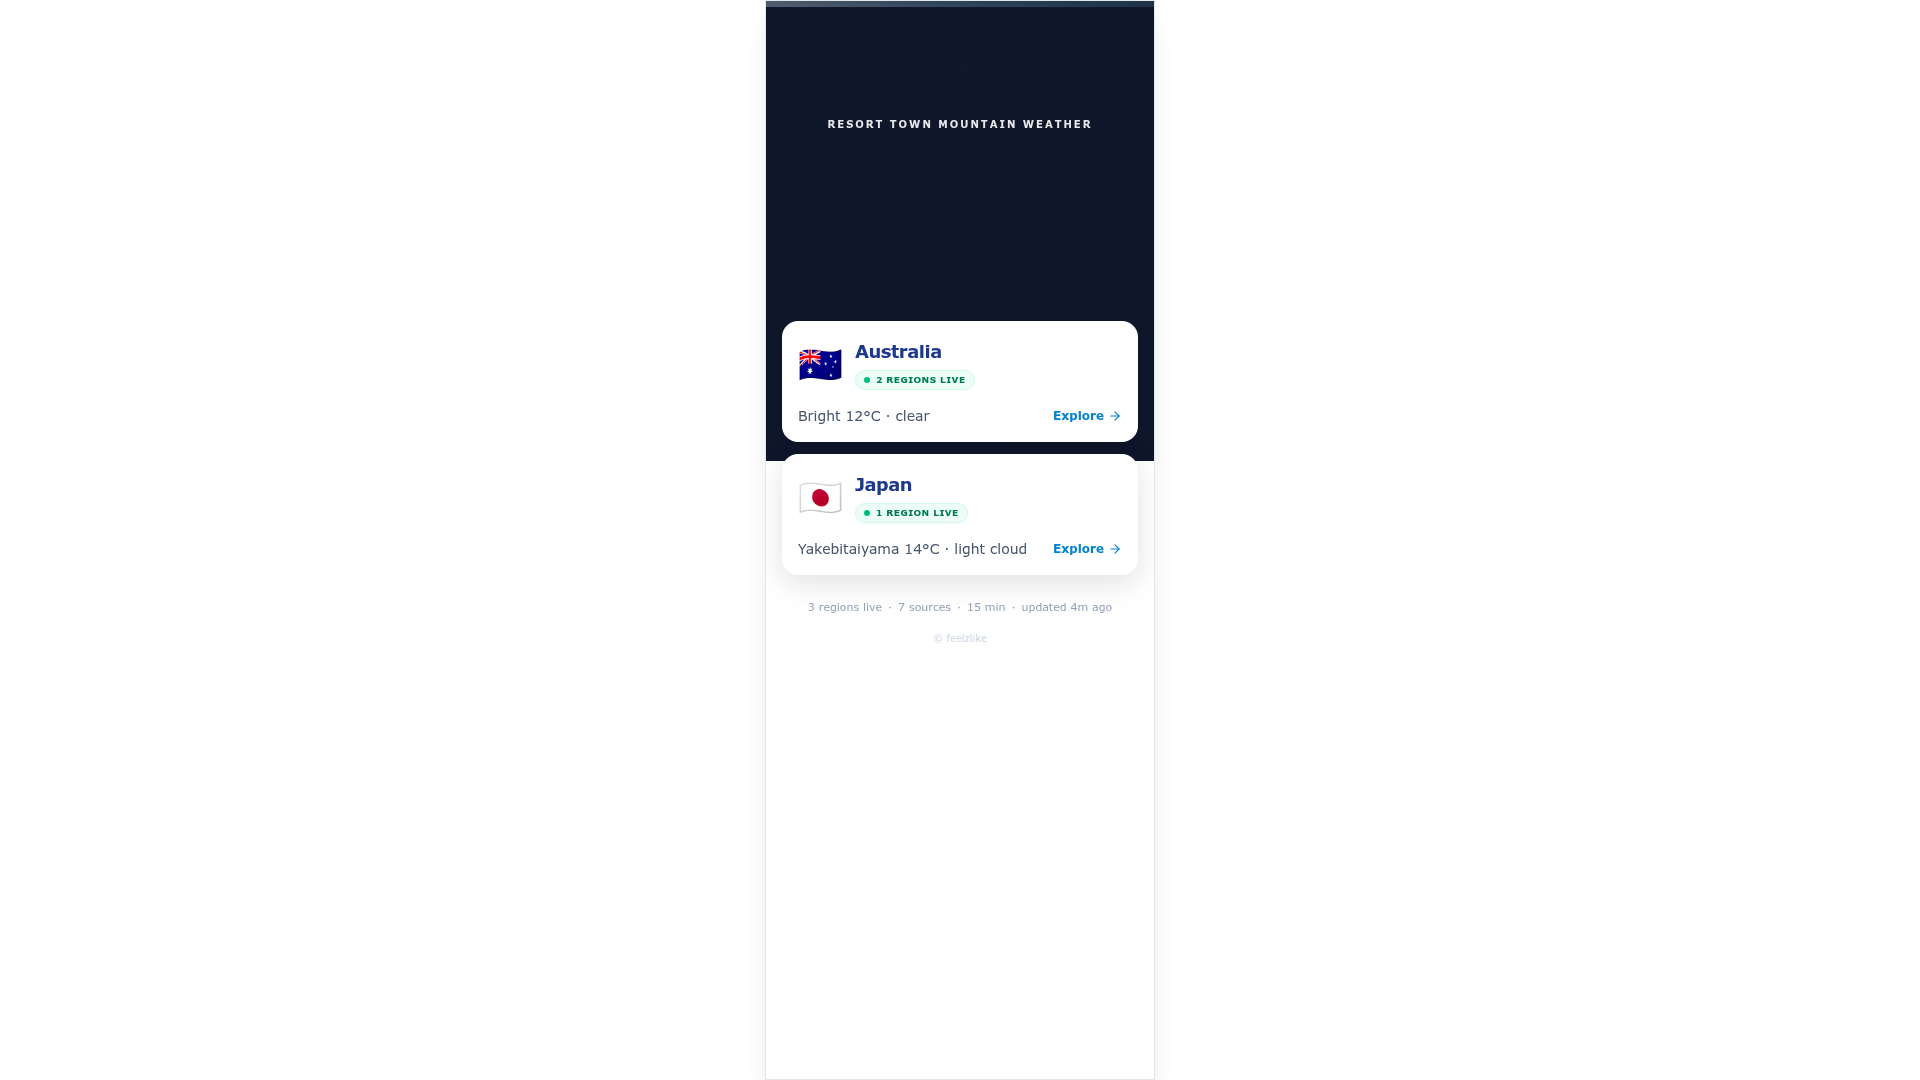
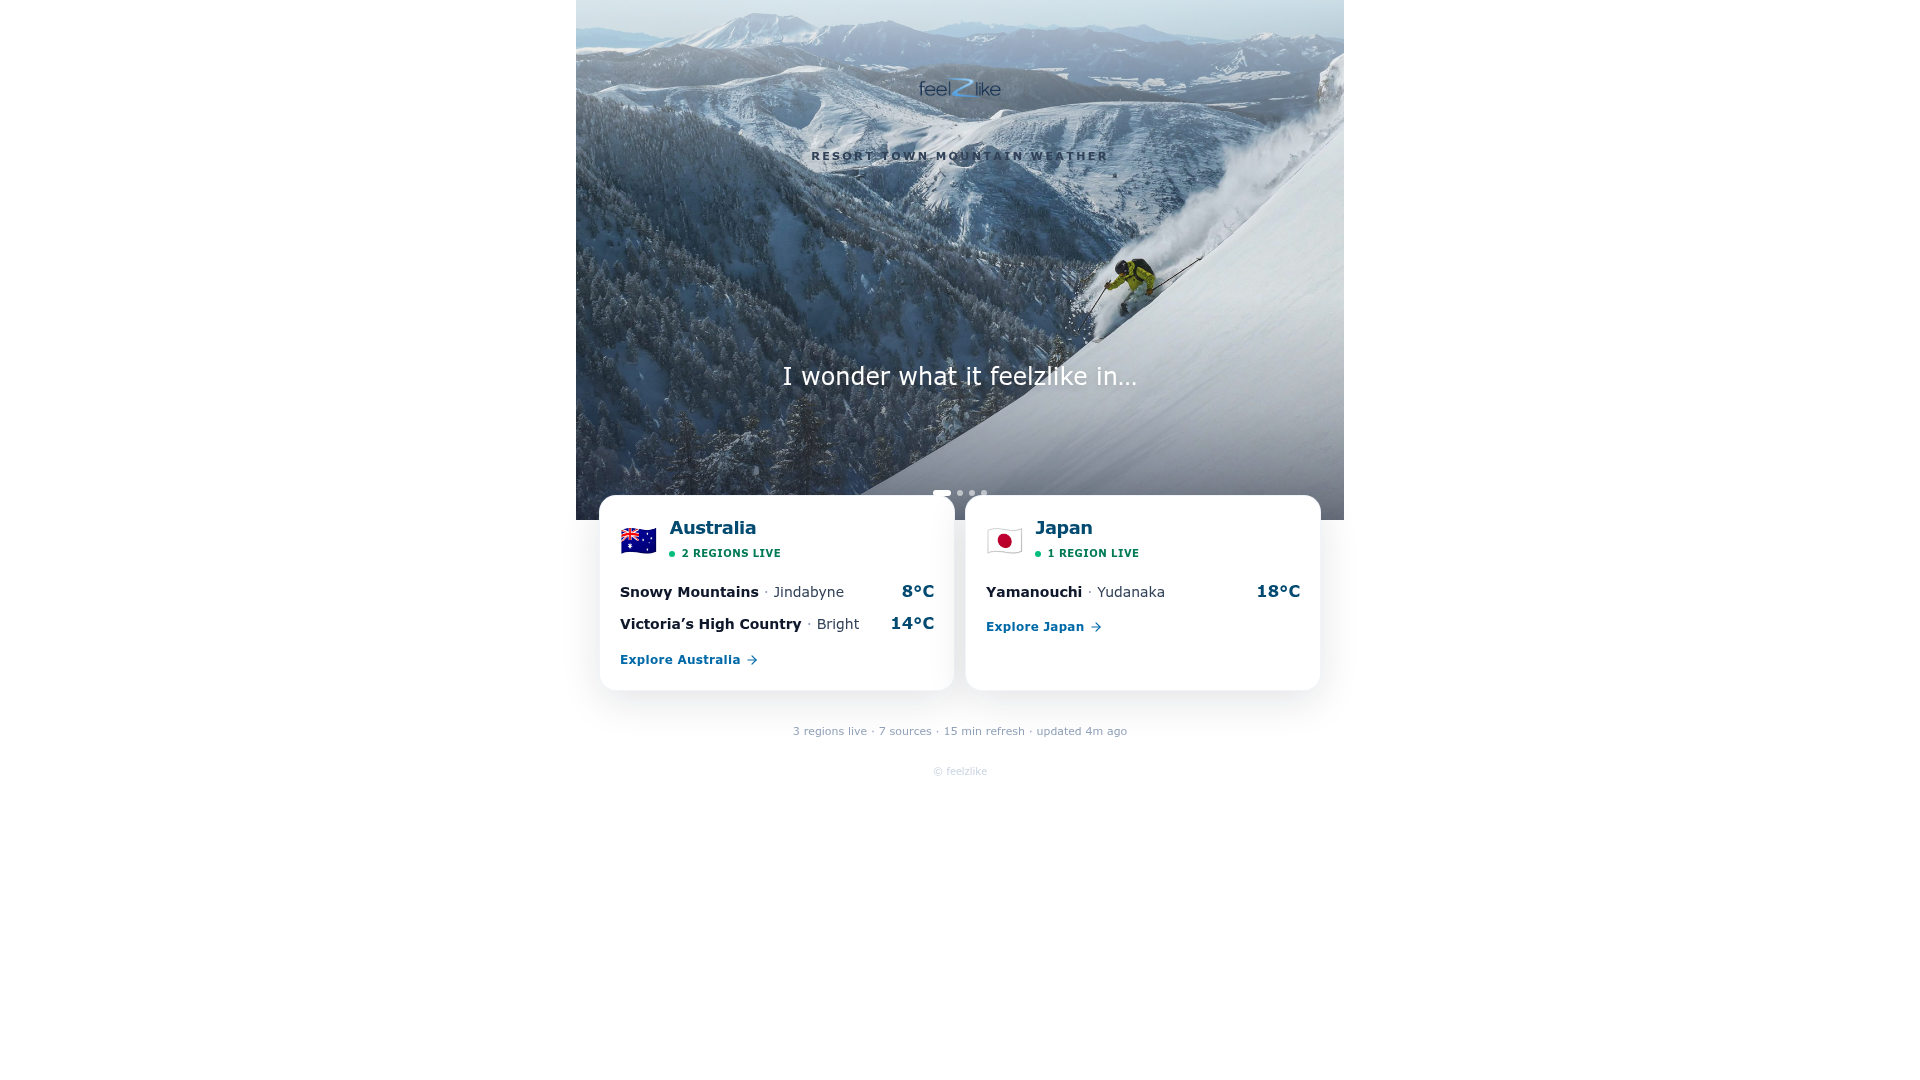
Update landing page with resort town slideshow and improved typography
Refactor `PhotoLed.tsx` to implement a responsive slideshow using new town images and wordmark, improve typography with `text-wrap: pretty`, and adjust layout for better readability across devices.

Replit-Commit-Author: Agent
Replit-Commit-Session-Id: 6cb63c1c-55be-41a5-b172-fdabfa1a7361
Replit-Commit-Checkpoint-Type: full_checkpoint
Replit-Commit-Event-Id: d2ac7f6b-ad75-4cd1-ad31-7e80a027bf1a
Replit-Commit-Screenshot-Url: https://storage.googleapis.com/screenshot-production-us-central1/f00f4d5d-4365-44ba-9092-bb91cd53e665/6cb63c1c-55be-41a5-b172-fdabfa1a7361/V70rkp1
Replit-Helium-Checkpoint-Created: true

Changed region(s): [[0.2812, 0.0, 0.7188, 0.6111], [0.6562, 0.5194, 0.6875, 0.55]]

diff --git a/artifacts/mockup-sandbox/src/components/mockups/landing-mobile/PhotoLed.tsx b/artifacts/mockup-sandbox/src/components/mockups/landing-mobile/PhotoLed.tsx
@@ -1,130 +1,204 @@
-import React from 'react';
+import React, { useEffect, useState } from 'react';
 import { ArrowRight } from 'lucide-react';
 
+const SLIDES = [
+  { src: '/__mockup/images/town-slide-1.jpg', alt: 'Resort town' },
+  { src: '/__mockup/images/town-slide-2.jpg', alt: 'Resort town' },
+  { src: '/__mockup/images/town-slide-3.jpg', alt: 'Resort town' },
+  { src: '/__mockup/images/town-slide-4.jpg', alt: 'Resort town' },
+];
+
 export function PhotoLed() {
+  const [active, setActive] = useState(0);
+
+  useEffect(() => {
+    const id = window.setInterval(
+      () => setActive((i) => (i + 1) % SLIDES.length),
+      4500,
+    );
+    return () => window.clearInterval(id);
+  }, []);
+
   return (
-    <div 
-      className="relative w-full h-full min-h-[844px] bg-white text-slate-900 mx-auto sm:w-[390px] sm:border sm:border-slate-200 sm:shadow-xl sm:overflow-hidden"
-      style={{ fontFamily: "'DIN Pro', system-ui, sans-serif" }}
+    <div
+      className="min-h-screen w-full bg-white text-slate-900"
+      style={{
+        fontFamily: "'DIN Pro', system-ui, sans-serif",
+        textWrap: 'pretty' as React.CSSProperties['textWrap'],
+      }}
     >
-      {/* Hero Section */}
-      <div className="relative h-[460px] w-full bg-slate-900 overflow-hidden">
-        <img 
-          src="/__mockup/images/mountain-hero.png" 
-          alt="Mountains" 
-          className="relative w-full h-full object-cover object-center z-0"
-        />
-        <div className="absolute inset-0 bg-gradient-to-b from-slate-900/40 via-transparent to-slate-900/60 z-0" />
-        
-        <div className="absolute inset-0 z-10 pt-16 px-6 flex flex-col items-center text-center">
-          <img 
-            src="/__mockup/images/feelzlike-logo.png" 
-            alt="feelzlike" 
-            className="h-12 w-auto mb-3 relative z-20"
-            style={{ filter: "brightness(0) invert(1)" }}
-            loading="eager"
-          />
-          <span className="text-[10px] font-semibold uppercase tracking-[0.2em] text-white/90 mb-6">
-            Resort Town Mountain Weather
-          </span>
-          
-          <div className="w-full text-center">
-            <h2 className="text-xl text-white/90 leading-snug font-medium">
-              I wonder what it feelzlike in...
-            </h2>
-          </div>
-        </div>
-      </div>
+      <div className="mx-auto w-full max-w-md md:max-w-3xl">
+        {/* Hero: town slideshow */}
+        <section className="relative h-[460px] md:h-[520px] w-full overflow-hidden bg-slate-900">
+          {SLIDES.map((s, i) => (
+            <img
+              key={s.src}
+              src={s.src}
+              alt={s.alt}
+              loading={i === 0 ? 'eager' : 'lazy'}
+              className="absolute inset-0 h-full w-full object-cover transition-opacity duration-1000 ease-out"
+              style={{ opacity: i === active ? 1 : 0 }}
+            />
+          ))}
 
-      {/* Cards Section */}
-      <div className="relative -mt-[140px] px-4 space-y-3 z-10">
-        
-        {/* AU Card */}
-        <div className="bg-white rounded-2xl p-4 shadow-[0_8px_30px_rgb(0,0,0,0.12)]">
-          <div className="flex items-start justify-between mb-3">
-            <div className="flex items-center gap-3">
-              <span className="text-4xl leading-none">🇦🇺</span>
-              <div>
-                <h3 className="text-lg font-bold text-blue-900 tracking-tight">Australia</h3>
-                <div className="mt-0.5 inline-flex items-center gap-1.5 px-2 py-0.5 rounded-full bg-emerald-50 border border-emerald-100">
-                  <span className="relative flex h-1.5 w-1.5">
-                    <span className="absolute inline-flex h-full w-full rounded-full bg-emerald-500 opacity-60 animate-ping" />
-                    <span className="relative inline-flex rounded-full h-1.5 w-1.5 bg-emerald-500" />
-                  </span>
-                  <span className="text-[9px] font-semibold uppercase tracking-wider text-emerald-700">
+          {/* Scrims: soft top wash for logo legibility, deeper bottom wash for cue */}
+          <div className="absolute inset-x-0 top-0 h-48 bg-gradient-to-b from-white/70 via-white/30 to-transparent" />
+          <div className="absolute inset-x-0 bottom-0 h-56 bg-gradient-to-t from-slate-900/55 via-slate-900/20 to-transparent" />
+
+          {/* Logo lockup */}
+          <div className="relative z-10 flex flex-col items-center px-6 pt-10 text-center">
+            <img
+              src="/__mockup/images/wordmark-colour.png"
+              alt="feelzlike"
+              loading="eager"
+              className="h-16 w-auto md:h-24"
+            />
+            <p
+              className="mt-3 text-[11px] font-semibold uppercase leading-snug tracking-[0.22em] text-slate-700"
+              style={{ textWrap: 'balance' as React.CSSProperties['textWrap'] }}
+            >
+              Resort town mountain weather
+            </p>
+          </div>
+
+          {/* Cue: sits in the lower-middle of the hero, well above the cards */}
+          <div className="absolute inset-x-0 bottom-28 z-10 px-6 text-center md:bottom-32">
+            <h1
+              className="text-xl font-medium leading-snug text-white drop-shadow-md md:text-2xl"
+              style={{ textWrap: 'balance' as React.CSSProperties['textWrap'] }}
+            >
+              I wonder what it feelzlike in&hellip;
+            </h1>
+          </div>
+
+          {/* Slideshow dots */}
+          <div className="absolute bottom-6 left-1/2 z-10 flex -translate-x-1/2 gap-1.5">
+            {SLIDES.map((_, i) => (
+              <span
+                key={i}
+                className="h-1.5 rounded-full bg-white transition-all duration-500"
+                style={{
+                  width: i === active ? 18 : 6,
+                  opacity: i === active ? 1 : 0.55,
+                }}
+              />
+            ))}
+          </div>
+        </section>
+
+        {/* Country cards: sit BELOW the hero, no overlap, so the cue stays visible */}
+        <section className="relative -mt-6 px-4 pb-8 md:px-6">
+          <div className="grid grid-cols-1 gap-3 md:grid-cols-2">
+            {/* Australia */}
+            <article className="rounded-2xl bg-white p-5 shadow-[0_10px_40px_rgb(15,23,42,0.12)] ring-1 ring-slate-100">
+              <header className="flex items-center gap-3">
+                <span aria-hidden className="text-3xl leading-none">
+                  &#127462;&#127482;
+                </span>
+                <div className="min-w-0">
+                  <h2 className="text-lg font-bold leading-tight tracking-tight text-sky-900">
+                    Australia
+                  </h2>
+                  <p className="mt-0.5 inline-flex items-center gap-1.5 text-[10px] font-semibold uppercase tracking-wider text-emerald-700">
+                    <span className="relative inline-flex h-1.5 w-1.5">
+                      <span className="absolute inline-flex h-full w-full animate-ping rounded-full bg-emerald-500 opacity-60" />
+                      <span className="relative inline-flex h-1.5 w-1.5 rounded-full bg-emerald-500" />
+                    </span>
                     2 regions live
-                  </span>
+                  </p>
                 </div>
-              </div>
-            </div>
-          </div>
+              </header>
 
-          <div className="mt-3 space-y-1.5">
-            <div className="flex items-center justify-between text-sm">
-              <span className="text-slate-700"><span className="font-semibold">Snowy Mountains</span> <span className="text-slate-400">·</span> Jindabyne</span>
-              <span className="font-bold tabular-nums text-blue-900">6°C</span>
-            </div>
-            <div className="flex items-center justify-between text-sm">
-              <span className="text-slate-700"><span className="font-semibold">Vic High Country</span> <span className="text-slate-400">·</span> Bright</span>
-              <span className="font-bold tabular-nums text-blue-900">12°C</span>
-            </div>
-          </div>
-
-          <div className="mt-3 flex items-center justify-end text-xs font-semibold text-sky-600">
-            Explore <ArrowRight className="w-3.5 h-3.5 ml-1" />
-          </div>
-        </div>
-
-        {/* JP Card */}
-        <div className="bg-white rounded-2xl p-4 shadow-[0_8px_30px_rgb(0,0,0,0.12)]">
-          <div className="flex items-start justify-between mb-3">
-            <div className="flex items-center gap-3">
-              <span className="text-4xl leading-none">🇯🇵</span>
-              <div>
-                <h3 className="text-lg font-bold text-blue-900 tracking-tight">Japan</h3>
-                <div className="mt-0.5 inline-flex items-center gap-1.5 px-2 py-0.5 rounded-full bg-emerald-50 border border-emerald-100">
-                  <span className="relative flex h-1.5 w-1.5">
-                    <span className="absolute inline-flex h-full w-full rounded-full bg-emerald-500 opacity-60 animate-ping" />
-                    <span className="relative inline-flex rounded-full h-1.5 w-1.5 bg-emerald-500" />
+              <ul className="mt-4 space-y-2 text-sm leading-relaxed">
+                <li className="flex items-baseline justify-between gap-3">
+                  <span className="min-w-0 truncate text-slate-700">
+                    <span className="font-semibold text-slate-900">Snowy Mountains</span>
+                    <span className="text-slate-400"> &middot; </span>
+                    Jindabyne
                   </span>
-                  <span className="text-[9px] font-semibold uppercase tracking-wider text-emerald-700">
+                  <span className="shrink-0 text-base font-bold tabular-nums text-sky-900">
+                    8&deg;C
+                  </span>
+                </li>
+                <li className="flex items-baseline justify-between gap-3">
+                  <span className="min-w-0 truncate text-slate-700">
+                    <span className="font-semibold text-slate-900">
+                      Victoria&rsquo;s High Country
+                    </span>
+                    <span className="text-slate-400"> &middot; </span>
+                    Bright
+                  </span>
+                  <span className="shrink-0 text-base font-bold tabular-nums text-sky-900">
+                    14&deg;C
+                  </span>
+                </li>
+              </ul>
+
+              <a
+                href="#"
+                className="mt-4 inline-flex items-center text-xs font-semibold tracking-wide text-sky-700 hover:text-sky-900"
+              >
+                Explore Australia
+                <ArrowRight className="ml-1 h-3.5 w-3.5" />
+              </a>
+            </article>
+
+            {/* Japan */}
+            <article className="rounded-2xl bg-white p-5 shadow-[0_10px_40px_rgb(15,23,42,0.12)] ring-1 ring-slate-100">
+              <header className="flex items-center gap-3">
+                <span aria-hidden className="text-3xl leading-none">
+                  &#127471;&#127477;
+                </span>
+                <div className="min-w-0">
+                  <h2 className="text-lg font-bold leading-tight tracking-tight text-sky-900">
+                    Japan
+                  </h2>
+                  <p className="mt-0.5 inline-flex items-center gap-1.5 text-[10px] font-semibold uppercase tracking-wider text-emerald-700">
+                    <span className="relative inline-flex h-1.5 w-1.5">
+                      <span className="absolute inline-flex h-full w-full animate-ping rounded-full bg-emerald-500 opacity-60" />
+                      <span className="relative inline-flex h-1.5 w-1.5 rounded-full bg-emerald-500" />
+                    </span>
                     1 region live
-                  </span>
+                  </p>
                 </div>
-              </div>
-            </div>
-          </div>
-          
-          <div className="mt-3 space-y-1.5">
-            <div className="flex items-center justify-between text-sm">
-              <span className="text-slate-700"><span className="font-semibold">Yamanouchi</span> <span className="text-slate-400">·</span> Yakebitaiyama</span>
-              <span className="font-bold tabular-nums text-blue-900">14°C</span>
-            </div>
+              </header>
+
+              <ul className="mt-4 space-y-2 text-sm leading-relaxed">
+                <li className="flex items-baseline justify-between gap-3">
+                  <span className="min-w-0 truncate text-slate-700">
+                    <span className="font-semibold text-slate-900">Yamanouchi</span>
+                    <span className="text-slate-400"> &middot; </span>
+                    Yudanaka
+                  </span>
+                  <span className="shrink-0 text-base font-bold tabular-nums text-sky-900">
+                    18&deg;C
+                  </span>
+                </li>
+              </ul>
+
+              <a
+                href="#"
+                className="mt-4 inline-flex items-center text-xs font-semibold tracking-wide text-sky-700 hover:text-sky-900"
+              >
+                Explore Japan
+                <ArrowRight className="ml-1 h-3.5 w-3.5" />
+              </a>
+            </article>
           </div>
 
-          <div className="mt-3 flex items-center justify-end text-xs font-semibold text-sky-600">
-            Explore <ArrowRight className="w-3.5 h-3.5 ml-1" />
-          </div>
-        </div>
+          {/* Trust line */}
+          <p
+            className="mx-auto mt-8 max-w-sm text-center text-[11px] leading-relaxed text-slate-400"
+            style={{ textWrap: 'balance' as React.CSSProperties['textWrap'] }}
+          >
+            3 regions live &middot; 7 sources &middot; 15 min refresh &middot; updated 4m ago
+          </p>
 
+          <p className="mt-6 text-center text-[10px] text-slate-300">
+            &copy; feelzlike
+          </p>
+        </section>
       </div>
-
-      {/* Trust Line & Footer */}
-      <div className="mt-6 flex flex-col items-center text-center px-4 pb-8">
-        <p className="text-[11px] text-slate-400 font-medium flex flex-wrap justify-center gap-x-1.5">
-          <span>3 regions live</span>
-          <span>·</span>
-          <span>7 sources</span>
-          <span>·</span>
-          <span>15 min</span>
-          <span>·</span>
-          <span>updated 4m ago</span>
-        </p>
-        <p className="text-[10px] text-slate-300 mt-4">
-          © feelzlike
-        </p>
-      </div>
-
     </div>
   );
 }

diff --git a/artifacts/mockup-sandbox/src/.generated/mockup-components.ts b/artifacts/mockup-sandbox/src/.generated/mockup-components.ts
@@ -1,9 +1,9 @@
 // This file is auto-generated by mockupPreviewPlugin.ts.
 type ModuleMap = Record<string, () => Promise<Record<string, unknown>>>;
 export const modules: ModuleMap = {
-  "./components/mockups/landing-mobile/LiveDataHero.tsx": () => import("../components/mockups/landing-mobile/LiveDataHero.tsx"),
-  "./components/mockups/landing-mobile/PhotoLed.tsx": () => import("../components/mockups/landing-mobile/PhotoLed.tsx"),
   "./components/mockups/feelzlike-branding/LogoV1.tsx": () => import("../components/mockups/feelzlike-branding/LogoV1.tsx"),
   "./components/mockups/feelzlike-branding/LogoV2.tsx": () => import("../components/mockups/feelzlike-branding/LogoV2.tsx"),
-  "./components/mockups/feelzlike-branding/LogoV3.tsx": () => import("../components/mockups/feelzlike-branding/LogoV3.tsx")
+  "./components/mockups/feelzlike-branding/LogoV3.tsx": () => import("../components/mockups/feelzlike-branding/LogoV3.tsx"),
+  "./components/mockups/landing-mobile/LiveDataHero.tsx": () => import("../components/mockups/landing-mobile/LiveDataHero.tsx"),
+  "./components/mockups/landing-mobile/PhotoLed.tsx": () => import("../components/mockups/landing-mobile/PhotoLed.tsx")
 };
